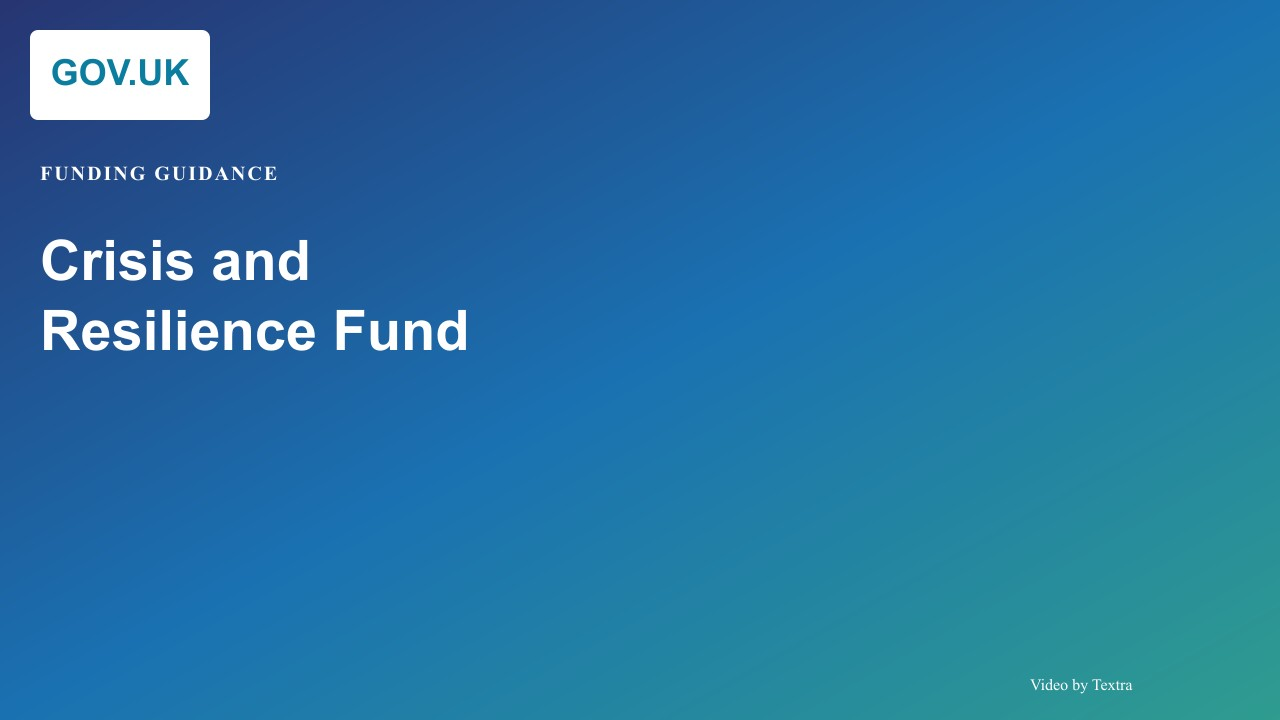
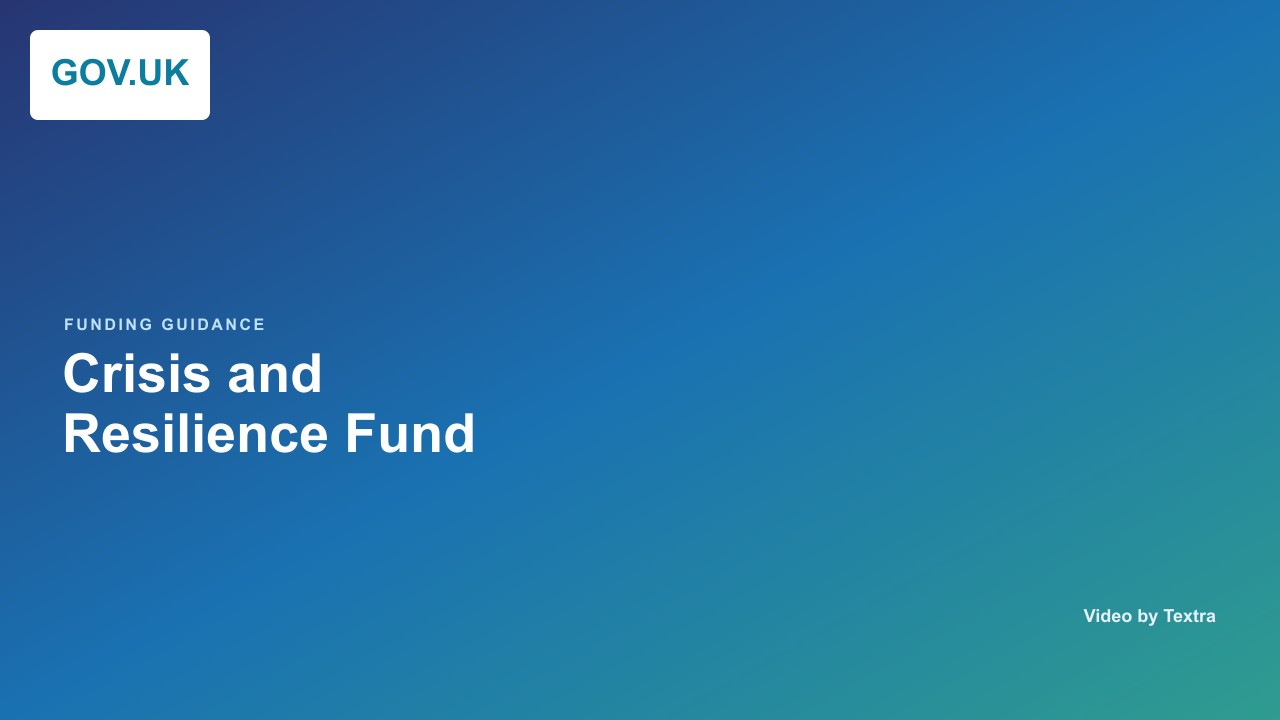
Align Crisis and Resilience Fund poster with standard demo card styling
- Fix text alignment and positioning to match other demo cards
- Use Arial, Helvetica, sans-serif for all text elements
- Add proper letter-spacing to 'Funding Guidance' label
- Increase 'Video by Textra' font-size to 18 and position bottom-right
- Update text colors to match standard theme (#bfe3ff, #e6f1fb)

diff --git a/scripts/generate-crf-poster.js b/scripts/generate-crf-poster.js
@@ -24,16 +24,14 @@ const svg = `
   <text x="120" y="85" font-size="36" font-weight="bold" fill="#0b7d9e" font-family="Arial, sans-serif" text-anchor="middle">GOV.UK</text>
 
   <!-- Label -->
-  <text x="40" y="180" font-size="20" font-weight="bold" fill="white" letter-spacing="2">FUNDING GUIDANCE</text>
+  <text x="64" y="330" font-family="Arial, Helvetica, sans-serif" font-size="16" font-weight="700" letter-spacing="2.5" fill="#bfe3ff">FUNDING GUIDANCE</text>
 
   <!-- Title -->
-  <text x="40" y="280" font-size="56" font-weight="bold" fill="white" font-family="Arial, sans-serif">
-    <tspan x="40">Crisis and</tspan>
-    <tspan x="40" dy="70">Resilience Fund</tspan>
-  </text>
+  <text x="62" y="392" font-family="Arial, Helvetica, sans-serif" font-size="54" font-weight="800" fill="#ffffff">Crisis and</text>
+  <text x="62" y="452" font-family="Arial, Helvetica, sans-serif" font-size="54" font-weight="800" fill="#ffffff">Resilience Fund</text>
 
   <!-- Bottom right branding -->
-  <text x="${width - 250}" y="${height - 30}" font-size="16" fill="white">Video by Textra</text>
+  <text x="1216" y="622" font-family="Arial, Helvetica, sans-serif" font-size="18" font-weight="600" fill="#e6f1fb" text-anchor="end">Video by Textra</text>
 </svg>
 `;
 
